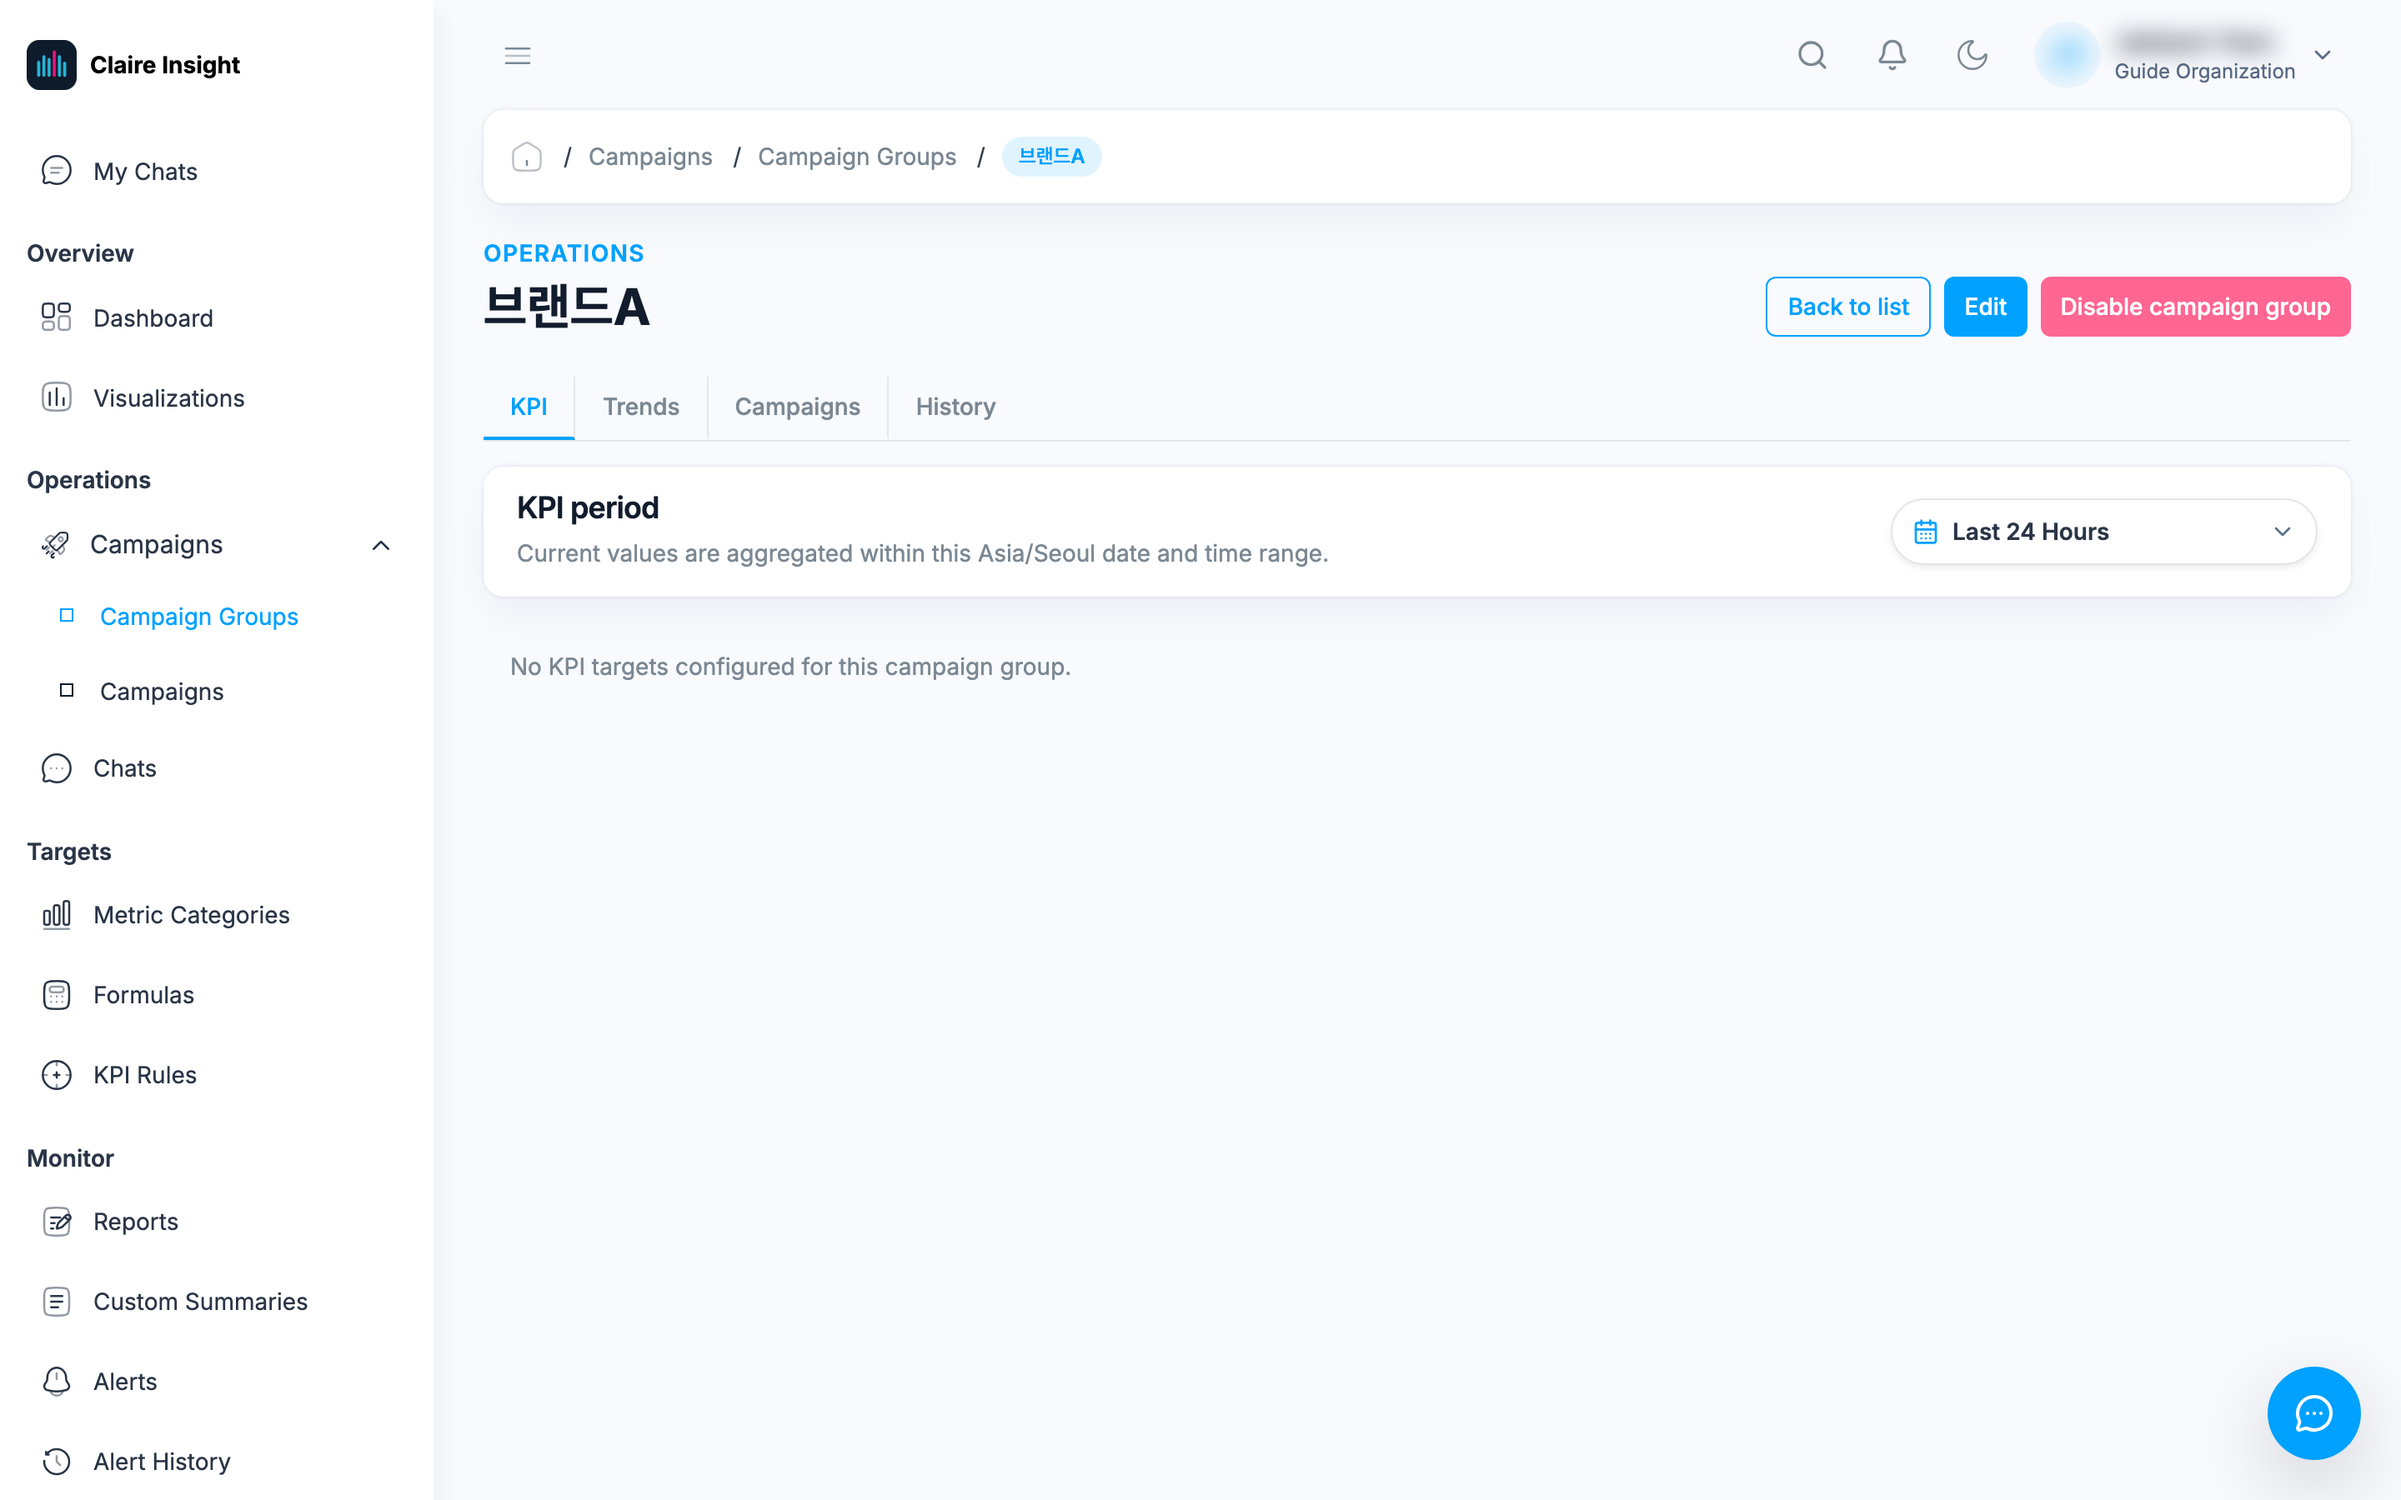
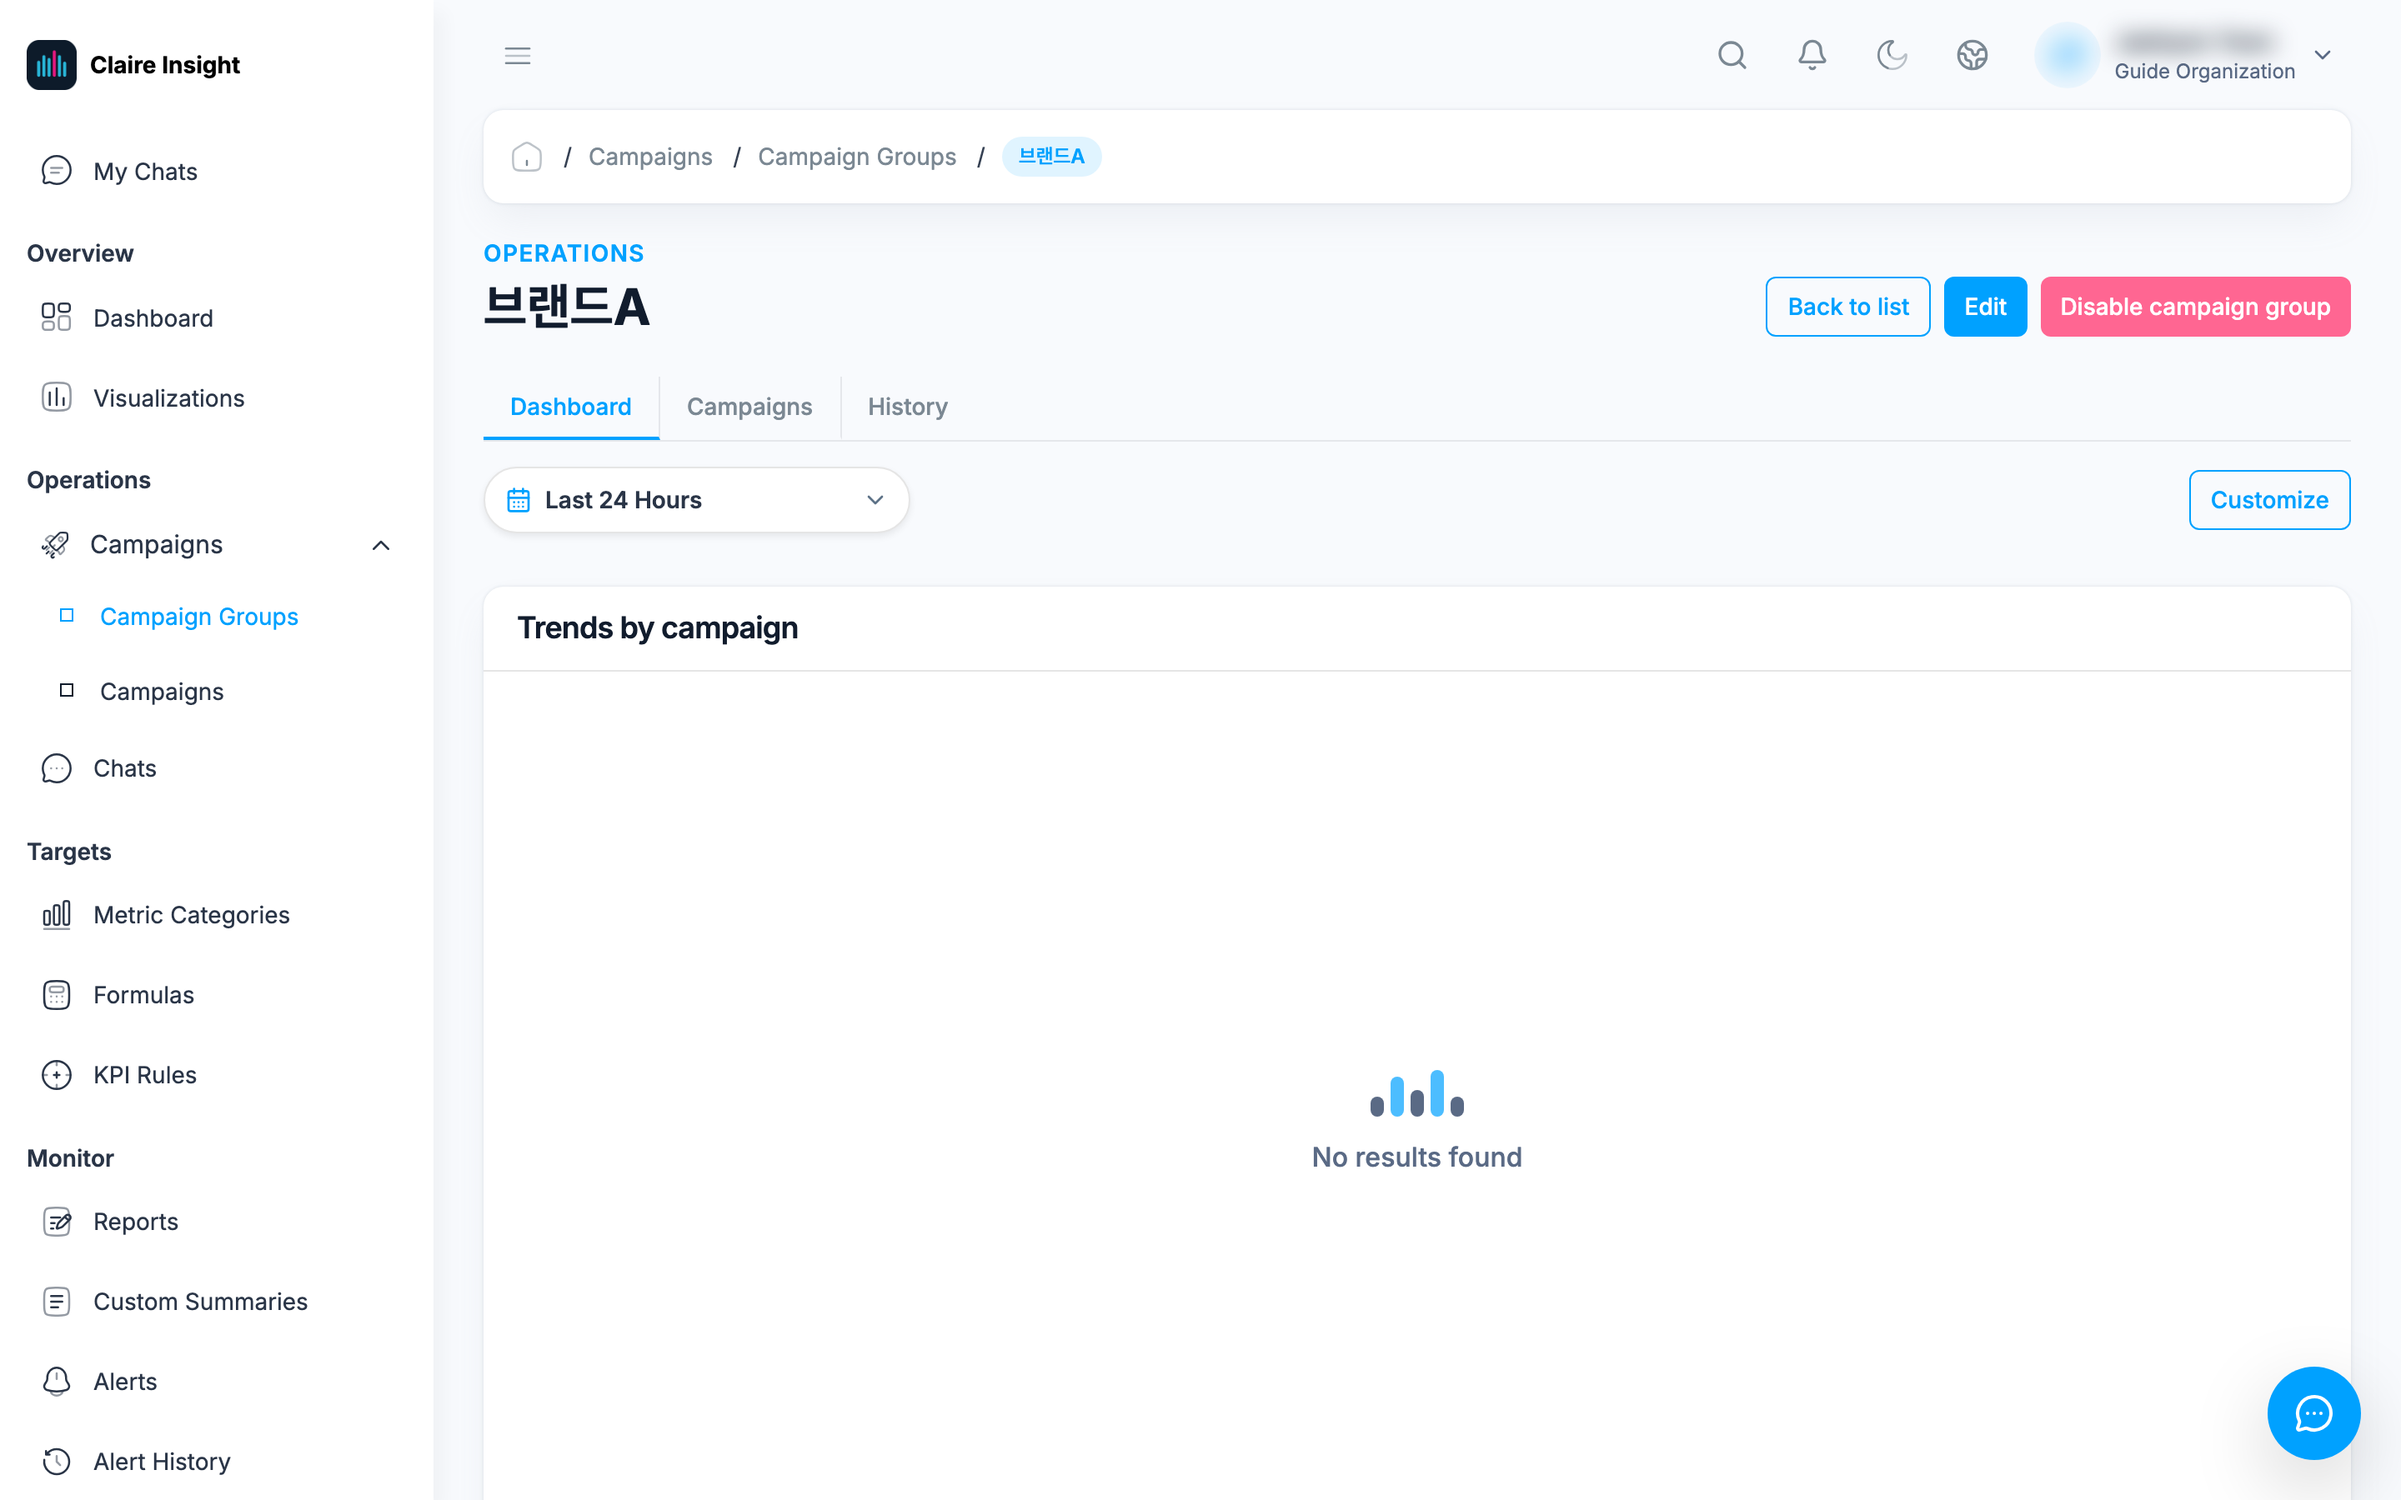
가이드 캡처 갱신: 캠페인 상세 Dashboard·Details 탭, KPI Target Settings 화면 반영 (촬영 기간 90일로 확대)
Claude-Session: https://claude.ai/code/session_015evJPJBDXTwqZeVnRgZ6Kf

diff --git a/tools/claire-capture/capture.py b/tools/claire-capture/capture.py
@@ -71,6 +71,27 @@ def _open_chat(page):
         page.wait_for_timeout(2000)
 
 
+def _wide_range(page):
+    """대시보드 기간 기본값(최근 24시간)은 데모 데이터가 오래돼 빈 차트가 된다 → 90일로 넓혀 찍는다."""
+    page.evaluate("""() => {
+      const end = Date.now();
+      const start = end - 90 * 24 * 60 * 60 * 1000;
+      for (const key of Object.keys(window.localStorage)) {
+        if (key.endsWith(':date-time-range:v1') || key.endsWith(':kpi-date-time-range:v1')) {
+          window.localStorage.setItem(key, JSON.stringify({startAt: start, endAt: end}));
+        }
+      }
+    }""")
+    page.reload(wait_until="networkidle")
+    page.wait_for_timeout(3000)
+
+
+def _campaign_dashboard(page):
+    _click_tab(page, "Dashboard")
+    _wide_range(page)
+    _click_tab(page, "Dashboard")
+
+
 def _first_detail(page):
     link = page.get_by_role("link", name="View details").first
     if not link.count():
@@ -90,10 +111,11 @@ SHOTS = [
     ("campaign-group-detail", "/campaign-groups/50103304", None),
     ("campaign-group-campaigns", "/campaign-groups/50103304",
      lambda p: _click_tab(p, "Campaigns")),
-    ("campaign-detail", "/campaigns/24053310", None),
-    ("campaign-trends", "/campaigns/24053310", lambda p: _click_tab(p, "Trends")),
-    ("campaign-kpi", "/campaigns/24053310", lambda p: _click_tab(p, "KPI")),
-    ("chat-panel", "/campaigns/24053310", _open_chat),
+    ("campaign-detail", "/campaigns/83901859", lambda p: _click_tab(p, "Details")),
+    # 2026-09 개편: KPI·Trends 탭 → Dashboard 탭 하나로 합쳐졌고 KPI 설정은 별도 화면
+    ("campaign-trends", "/campaigns/83901859", _campaign_dashboard),
+    ("campaign-kpi", "/campaigns/83901859/kpis/edit", None),
+    ("chat-panel", "/campaigns/83901859", _open_chat),
     ("campaigns-list", "/campaigns", None),
     ("my-chats", "/my-chats", None),
     ("metric-categories", "/metric-categories", None),
@@ -105,7 +127,7 @@ SHOTS = [
     ("custom-summary-detail", "/custom-summaries", _first_detail),
     ("reports", "/reports", None),
     ("organization-settings", "/organization-settings", None),
-    ("platform-integrations", "/platform-integrations", None),
+        ("platform-integrations", "/platform-integrations", None),
     ("platform-accounts", "/platform-integrations/meta/accounts", None),
     ("platform-connect", "/platform-integrations/new", None),
     ("communication-groups", "/communication-groups", None),
